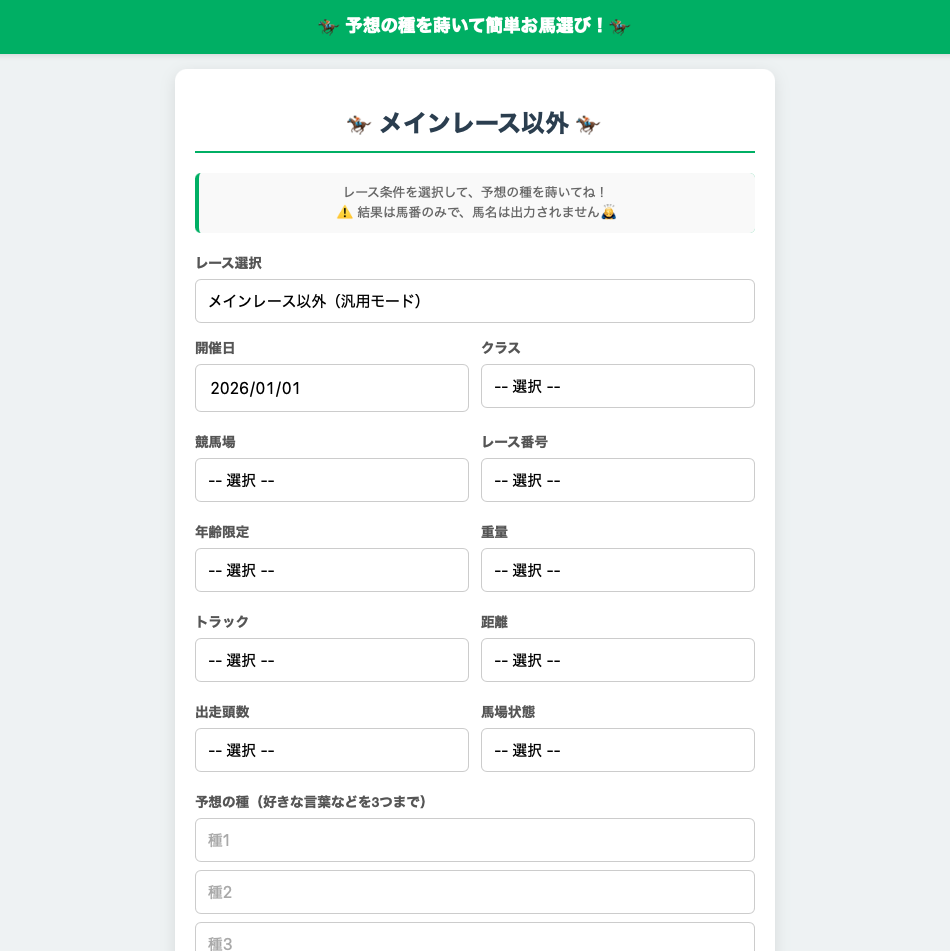
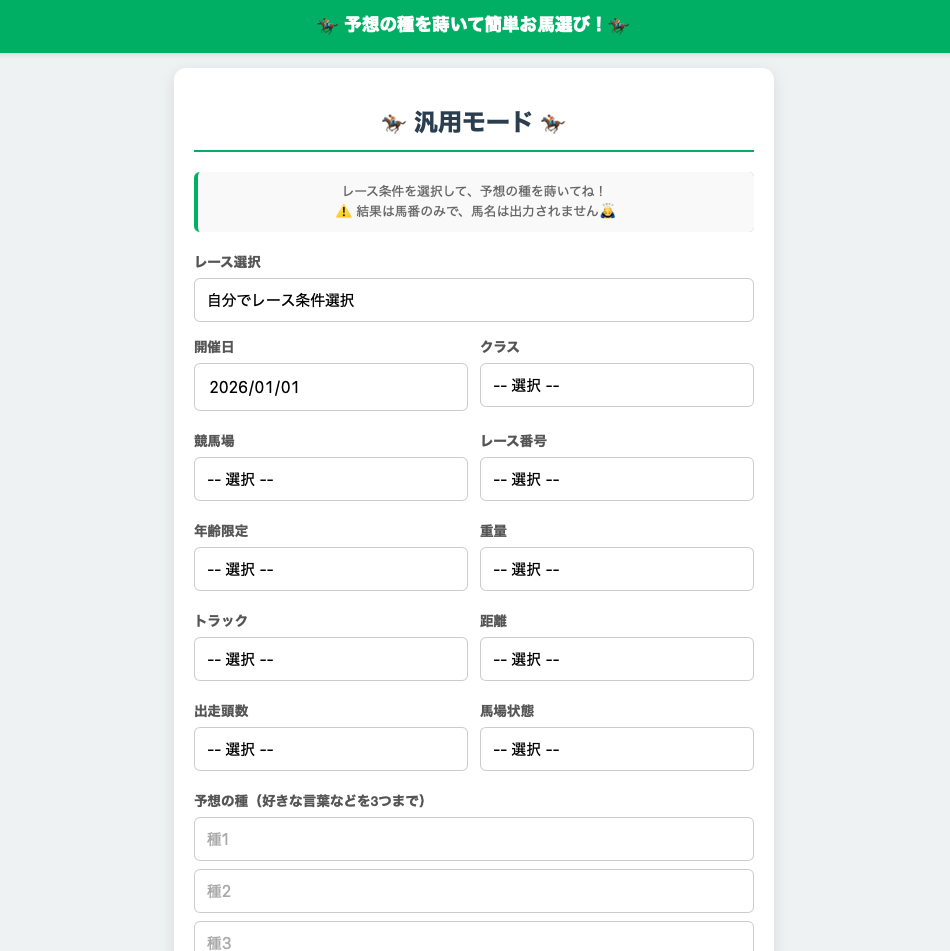
最終微修正

diff --git a/index.html b/index.html
@@ -140,7 +140,7 @@
 
 <div class="container">
 
-    <h1 id="mainTitle">🏇 メインレース以外</h1>
+    <h1 id="mainTitle">🏇 汎用モード 🏇</h1>
     
     <p id="genericWarning" style="text-align: center; font-size: 0.8em; color: #666; line-height: 1.6; margin-bottom: 20px; background: #f9f9f9; padding: 10px; border-radius: 6px; border-left: 4px solid var(--theme-color);">
         レース条件を選択して、予想の種を蒔いてね！<br>
@@ -150,7 +150,7 @@
     <div class="form-group">
         <label>レース選択</label>
         <select id="raceSelector" onchange="applySelectedRace()">
-            <option value="-1">メインレース以外（汎用モード）</option>
+            <option value="-1">自分でレース条件選択</option>
         </select>
     </div>
 
@@ -475,7 +475,7 @@ function checkRaceMode() {
     } else {
         isRace = false;
         currentActiveRace = null;
-        document.getElementById('mainTitle').innerText = "🏇 メインレース以外 🏇";
+        document.getElementById('mainTitle').innerText = "🏇 汎用モード 🏇";
         resetBtn.style.display = "block";
         resetBtn.innerText = "リセット";
     }
